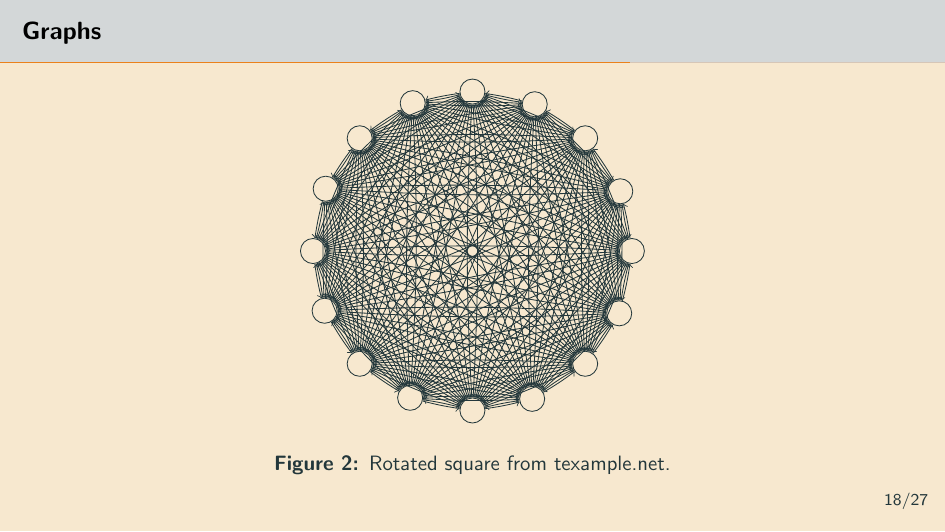
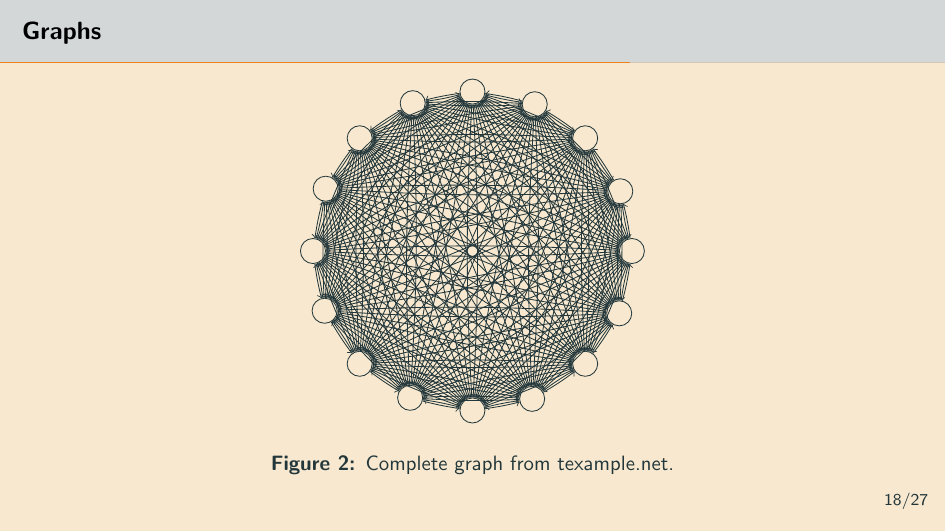
Fix typo

Changed region(s): [[0.2762, 0.8421, 0.7058, 0.9023]]

diff --git a/amf-beamer-template.tex b/amf-beamer-template.tex
@@ -239,7 +239,7 @@ background=light
         \node at ( 330:2)   {Coding};
         \node [font=\Large] {\LaTeX};
       \end{tikzpicture}
-      \caption{Rotated square from
+      \caption{A Venn diagram from
 			\href{http://www.texample.net/tikz/examples/rotated-polygons/}{texample.net}.}
 		\end{figure}
 	\end{frame}
@@ -269,7 +269,7 @@ background=light
         	}
       	}
       \end{tikzpicture}
-      \caption{Rotated square from
+      \caption{Complete graph from
 			\href{https://texample.net/tikz/examples/complete-graph/}{texample.net}.}
     \end{figure}
   \end{frame}
